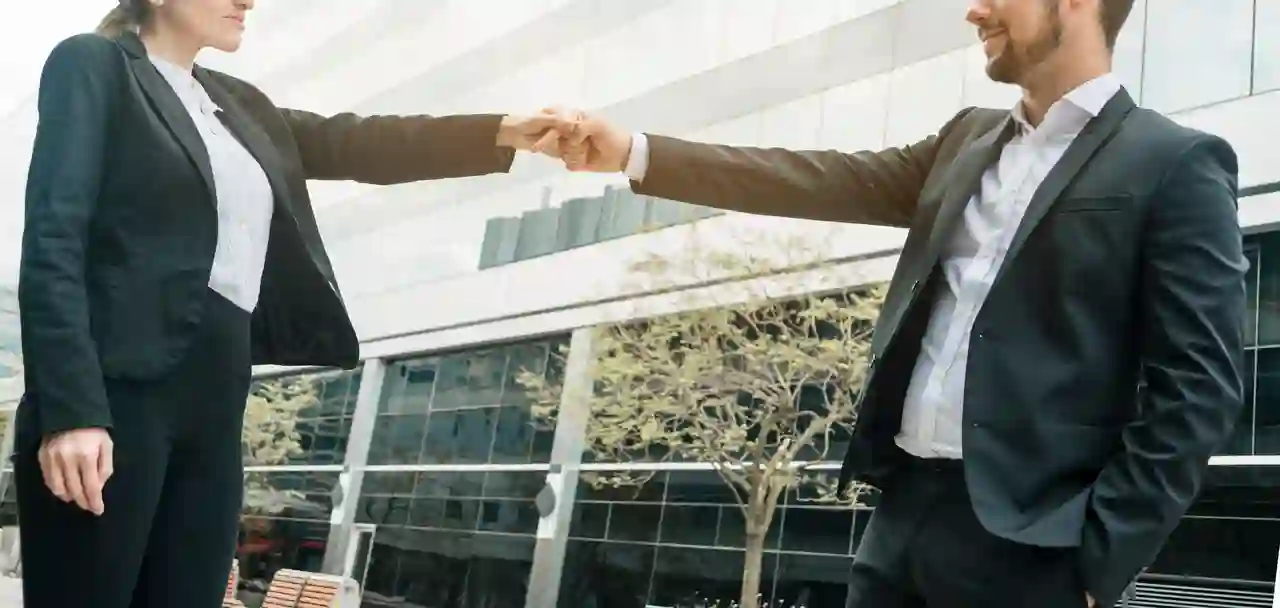
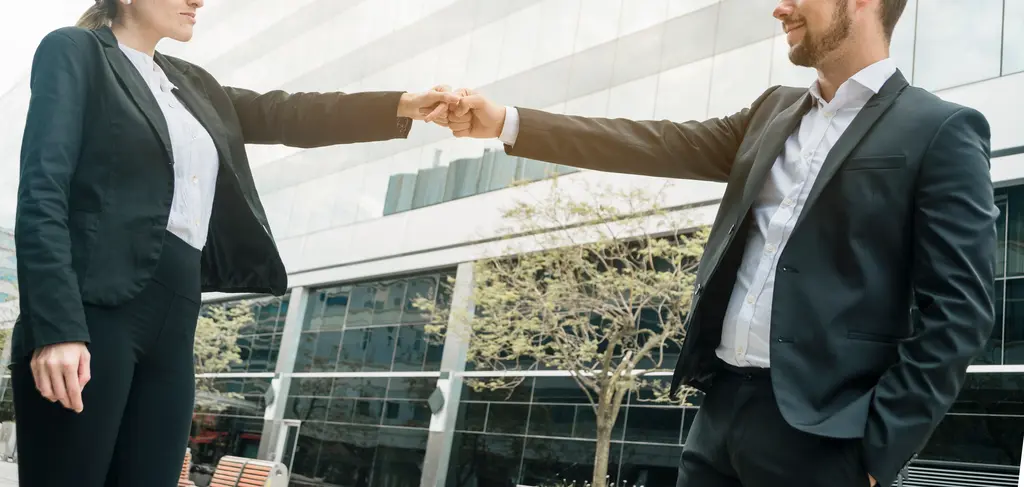
Google map and text width in career HOTFIX

diff --git a/src/Pages/Contact.jsx b/src/Pages/Contact.jsx
@@ -125,7 +125,7 @@ export default function Contact(title) {
                 window.grecaptcha.execute("6Le5cv8rAAAAABU9QjGyC0d2mkaOAgzehxLKyW6P", { action: "submit" }) 
                 .then((token) => { 
                     const payload = { name: formData.name, email: formData.email, tel: formData.tel, desc: formData.desc, recaptchaToken: token }; 
-                    fetch("http://localhost:5000/send_mail", { method: "POST", headers: { "Content-Type": "application/json" }, body: JSON.stringify(payload) }) 
+                    fetch("http://startrans.com.pl/Backend/app.php", { method: "POST", headers: { "Content-Type": "application/json" }, body: JSON.stringify(payload) }) 
                     .then((res) => res.json()) 
                     .then((data) => { 
                         if (data.success) { 
@@ -177,7 +177,7 @@ export default function Contact(title) {
                             <InfoBox type='containerContact' img={icon['telephoneState']} desc='+48 668 310 267' />
                         </section>
                         <iframe
-                            src="https://www.google.com/maps/embed?pb=!1m18!1m12!1m3!1d34306.8244881745!2d22.400810432298666!3d50.27568616069454!2m3!1f0!2f0!3f0!3m2!1i1024!2i768!4f13.1!3m3!1m2!1s0x473cc6b74783fbf1%3A0x2e4fed9de334b27d!2sMickiewicza%2057%2C%2037-300%20Le%C5%BCajsk!5e0!3m2!1sen!2spl!4v1760615340083!5m2!1sen!2spl"
+                            src="https://www.google.com/maps/embed?pb=!1m18!1m12!1m3!1d1275.250677421601!2d22.420737748147566!3d50.26389677989146!2m3!1f0!2f0!3f0!3m2!1i1024!2i768!4f13.1!3m3!1m2!1s0x473cc6bbd226dc8d%3A0x369cf011a9c623e8!2zU3DDs8WCZHppZWxjemEgOCwgMzctMzAwIExlxbxhanNr!5e0!3m2!1sen!2spl!4v1765300014137!5m2!1sen!2spl"
                             allowFullScreen=""
                             loading="lazy"
                             referrerPolicy="no-referrer-when-downgrade"
@@ -186,5 +186,7 @@ export default function Contact(title) {
                 </section>
             </section>
         </>
+        
+        
     )
 }

diff --git a/src/App.css b/src/App.css
@@ -39,17 +39,17 @@ body{
     border-radius: 1rem;
     box-shadow: var(--boxShadow);
     & .MPAbout{
-    background-image: url('./assets//img/MP/aboutMP.webp');
+    background-image: url('./assets/img/MP/aboutMP.webp');
     
         background-size: cover;
     }
     & .transService{
-        background-image: url('./assets/img/supply-chain-representation-still-life.jpg');
+        background-image: url('./assets/img/Service/Transport.webp');
         background-size: cover;
         background-position: center;
     }
     & .secondImgService{
-        background-image: url('./assets/img/top-view-delivery-truck-with-copy-space.jpg');
+        background-image: url('./assets/img/Service/Forward.webp');
         background-size: cover;
         background-position: center;
     }

diff --git a/src/Pages/MainPage.jsx b/src/Pages/MainPage.jsx
@@ -17,7 +17,6 @@ import Captions from '../components/Captions.jsx'
 import ServiceBox from '../components/ServiceBox.jsx'
 import InfoBox from '../components/InfoBox.jsx';
 
-import test from '../assets/logo/Gemini_Generated_Image_tyj0t5tyj0t5tyj0.png'
 import '../styles/MainPage.css'
 import {useEffect, useState } from "react";
 
@@ -67,8 +66,7 @@ export default function MainPage(title){
         <>
 
         <title>{`StarTrans - ${title.title}`}</title>
-        
-        <img src={test} alt='dd' />
+      
         <Captions captionTitle={t("serviceCaptionMP")} captionDesc={t('serviceSmCaptionMP')}/>
       
       <div id='serviceBox'>

diff --git a/src/Pages/Carrier.jsx b/src/Pages/Carrier.jsx
@@ -64,8 +64,7 @@ export default function Carrier(title){
                         <p style={{marginTop: '1rem'}}>{t('carrierDesc3')}</p>
                         <a href="https://www.wp.pl" className="btn"><Button text="Dołącz do nas!" style={'btnCnt'} /></a>
                     </div>
-                    <img src=
-                    {img} alt="Zdjęcie podania rąk" />
+                    <img src={img} alt="Zdjęcie podania rąk" />
                 </div>
                 <div className="CV">
                     <h2>{t('cvReqHeading')}</h2>

diff --git a/src/styles/Carrier.css b/src/styles/Carrier.css
@@ -7,6 +7,11 @@
         align-items: start;
         flex-wrap: nowrap;
         flex-direction: row;
+    
+        &   .text{
+            width: 50%;
+
+        }
     }
 
     &   .CV{
@@ -27,7 +32,7 @@
     &   a{
     width: 100%;
     text-decoration: none;
-}
+    }
 }
 
 

diff --git a/Backend/app.php b/Backend/app.php
@@ -4,52 +4,57 @@ require __DIR__ . '/vendor/autoload.php';
 use PHPMailer\PHPMailer\PHPMailer;
 use PHPMailer\PHPMailer\Exception;
 
-// Wczytanie .env
-$dotenv = Dotenv\Dotenv::createImmutable(__DIR__);
-$dotenv->load();
+$EMAIL_USER = 'nspkpl2@gmail.com';
+$EMAIL_PASS = "wbxu sxaq arun hzrr";
+$EMAIL_RECEIVER = 'biuro@startrans.com.pl';
+$RECAPTCHA_SECRET = '6Le5cv8rAAAAAO_5K53Iv5LII7LGhKIYPPYWO6lO';
+$ALLOWED_ORIGIN = 'http://startrans.com.pl';
 
-$EMAIL_USER = $_ENV['EMAIL_USER'] ?? '';
-$EMAIL_PASS = $_ENV['EMAIL_PASS'] ?? '';
-$EMAIL_RECEIVER = $_ENV['EMAIL_RECEIVER'] ?? '';
-$RECAPTCHA_SECRET = $_ENV['RECAPTCHA_SECRET'] ?? '';
-$ALLOWED_ORIGIN = $_ENV['ALLOWED_ORIGIN'] ?? 'http://localhost:5173';
-
-// Nagłówki CORS
 header("Access-Control-Allow-Origin: $ALLOWED_ORIGIN");
 header("Access-Control-Allow-Headers: Content-Type");
 header("Access-Control-Allow-Methods: POST, OPTIONS");
 header("Content-Type: application/json");
 
-// Obsługa preflight (OPTIONS)
 if ($_SERVER['REQUEST_METHOD'] === 'OPTIONS') {
     http_response_code(200);
     exit;
 }
 
-// Funkcja do weryfikacji reCAPTCHA
 function verify_recaptcha($token, $secret)
 {
     $url = "https://www.google.com/recaptcha/api/siteverify";
-    $data = http_build_query([
+    $data = [
         "secret" => $secret,
         "response" => $token
-    ]);
-    $options = [
-        "http" => [
-            "method" => "POST",
-            "header" => "Content-Type: application/x-www-form-urlencoded\r\n",
-            "content" => $data,
-            "timeout" => 10
-        ]
     ];
-    $context = stream_context_create($options);
-    $result = @file_get_contents($url, false, $context);
-    if (!$result) return false;
+
+    $ch = curl_init();
+    
+    curl_setopt($ch, CURLOPT_URL, $url);
+    curl_setopt($ch, CURLOPT_POST, 1);
+    curl_setopt($ch, CURLOPT_POSTFIELDS, http_build_query($data));
+    curl_setopt($ch, CURLOPT_RETURNTRANSFER, true);
+    curl_setopt($ch, CURLOPT_SSL_VERIFYPEER, true); 
+    
+    $result = curl_exec($ch);
+    $http_code = curl_getinfo($ch, CURLINFO_HTTP_CODE);
+    
+    if (curl_errno($ch)) {
+        error_log('Błąd cURL reCAPTCHA: ' . curl_error($ch));
+        curl_close($ch);
+        return false;
+    }
+    
+    curl_close($ch);
+
+    if ($http_code !== 200 || !$result) {
+        return false;
+    }
+
     $resp = json_decode($result, true);
     return isset($resp['success'], $resp['score']) && $resp['success'] === true && $resp['score'] > 0.5;
 }
 
-// Odczyt JSON z requestu
 $raw = file_get_contents("php://input");
 $input = json_decode($raw, true);
 
@@ -59,28 +64,24 @@ if (!$input) {
     exit;
 }
 
-// Weryfikacja reCAPTCHA
 $recaptchaToken = $input['recaptchaToken'] ?? null;
 if (!$recaptchaToken || !verify_recaptcha($recaptchaToken, $RECAPTCHA_SECRET)) {
     http_response_code(400);
-    echo json_encode(["success" => false, "error" => "Niepoprawna weryfikacja reCAPTCHA"]);
+    echo json_encode(["success" => false, "error" => "Niepoprawna weryfikacja reCAPTCHA (błąd weryfikacji lub niski wynik)"]);
     exit;
 }
 
-// Pobranie danych formularza
 $name = $input['name'] ?? 'Brak';
 $email = $input['email'] ?? 'Brak';
 $tel = $input['tel'] ?? 'Brak';
 $desc = $input['desc'] ?? 'Brak';
 
-// Prosta walidacja e-mail
 if (!filter_var($email, FILTER_VALIDATE_EMAIL)) {
     http_response_code(400);
     echo json_encode(["success" => false, "error" => "Nieprawidłowy format e-mail"]);
     exit;
 }
 
-// Wysyłka maila
 $mail = new PHPMailer(true);
 $mail->CharSet = 'UTF-8';
 try {
@@ -110,5 +111,5 @@ Treść wiadomości:
     echo json_encode(["success" => true, "message" => "Wiadomość wysłana pomyślnie!"]);
 } catch (Exception $e) {
     http_response_code(500);
-    echo json_encode(["success" => false, "error" => $mail->ErrorInfo ?: $e->getMessage()]);
+    echo json_encode(["success" => false, "error" => "Błąd wysyłania: " . ($mail->ErrorInfo ?: $e->getMessage())]);
 }
